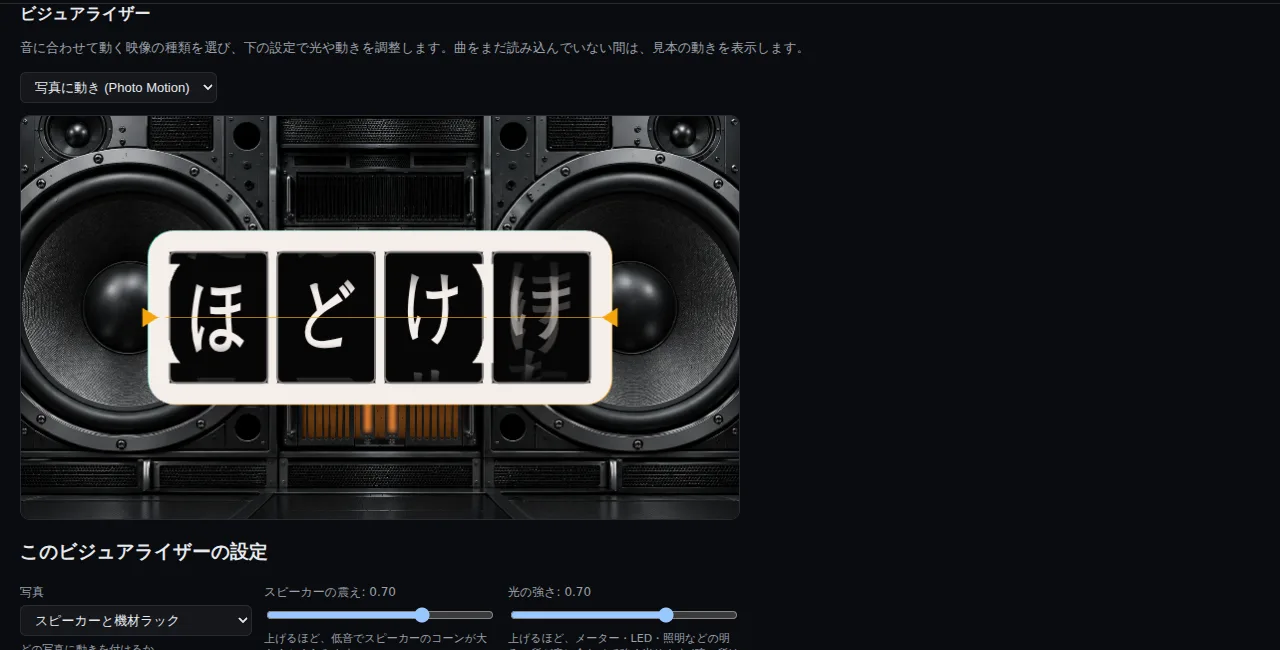
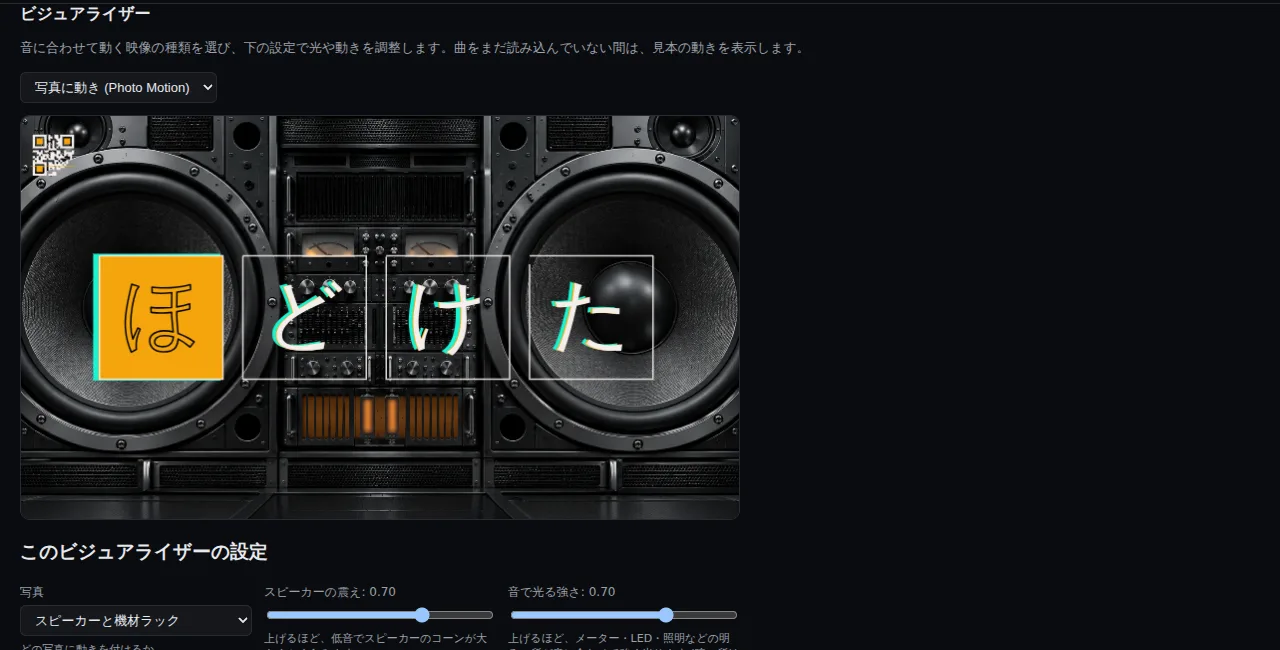
「背景と素材」を真ん中で分けてプレビューを大きく・つまみの名前を分ける・使い方の画像を撮り直す
- style.css: .overlay-split を左右同じ幅に（プレビューは前の 320〜460px から、1900px の画面で 922px、
  1280px で 612px）。1000px 以下は今までどおり上に固定
- 「光の強さ」が 2 つあったのを分けた: 共通 → 「光のにじみ」(Bloom)、写真に動き → 「音で光る強さ」(Light reaction)
- 使い方の画像を撮り直し、リリックモーションタブの「区切りで動きを変える」の画像を足した（11 枚）
- HANDOFF 更新

確認できたこと: build / lint / Vitest 373 件、E2E 全体 71 通過・1 スキップ。1900px と 1280px の画面を撮って
左右が同じ幅になっていることを目で確認。
確認できていないこと: ユーザーの実機の画面（とくに縦が短い画面でプレビューが下にはみ出さないか）。

Claude-Session: https://claude.ai/code/session_017BGLo5ekjnP2oxaPpkGnjD

Changed region(s): [[0.0625, 0.3385, 0.5, 0.6462], [0.0, 0.1846, 0.0625, 0.2769], [0.375, 0.8923, 0.4688, 0.9231]]

diff --git a/tests/e2e/shell.spec.ts b/tests/e2e/shell.spec.ts
@@ -63,7 +63,7 @@ test('表記の言語: 日本語に切り替えるとタブ名・設定の名前
   await page.locator('button[data-lang="ja"]').click();
   await expect(page.getByRole('tab', { name: 'ビジュアライザー' })).toBeVisible();
   await page.getByRole('tab', { name: 'ビジュアライザー' }).click();
-  await expect(page.getByText(/^光の強さ: /)).toBeVisible();
+  await expect(page.getByText(/^光のにじみ: /)).toBeVisible();
   await expect(page.getByText('明るい部分のまわりが、ふんわり光って見える量')).toBeVisible();
   await expect(page.locator('html')).toHaveAttribute('lang', 'ja');
   // 開き直しても日本語のまま (このブラウザに覚えている)
@@ -72,7 +72,7 @@ test('表記の言語: 日本語に切り替えるとタブ名・設定の名前
   await page.locator('button[data-lang="en"]').click();
   await expect(page.getByRole('tab', { name: 'Music' })).toBeVisible();
   await page.getByRole('tab', { name: 'Visualizer' }).click();
-  await expect(page.getByText(/^Glow: /)).toBeVisible();
+  await expect(page.getByText(/^Bloom: /)).toBeVisible();
 });
 
 test('このビジュアライザーの設定: Live Stage のカメラの場所を選ぶと残り、ほかのビジュアライザーには出ない', async ({ page }) => {

diff --git a/src/ui/panels/help.ts b/src/ui/panels/help.ts
@@ -2,6 +2,7 @@ import { t2, type Text2 } from '../../core/i18n';
 import backgroundImg from '../../assets/help/background.webp';
 import exportImg from '../../assets/help/export.webp';
 import layersImg from '../../assets/help/layers.webp';
+import lyricMotionImg from '../../assets/help/lyric-motion.webp';
 import lyricsInputImg from '../../assets/help/lyrics-input.webp';
 import lyricsStepsImg from '../../assets/help/lyrics-steps.webp';
 import lyricsTapImg from '../../assets/help/lyrics-tap.webp';
@@ -158,6 +159,7 @@ const DETAILS: Block[] = [
         en: 'Motion by section: with headings like [Chorus] or [Intro], the chorus moves harder and the intro / outro calmer. Choose the strength per section in the Lyric motion tab',
       },
     ],
+    image: { src: lyricMotionImg, alt: { ja: '「リリックモーション」タブの「区切りで動きを変える」', en: '"Motion by section" in the Lyric motion tab' } },
   },
   {
     title: { ja: 'ビジュアライザー (映像の種類と設定)', en: 'Visualizer (visual types and settings)' },

diff --git a/src/style.css b/src/style.css
@@ -519,8 +519,8 @@ body {
 .help-details > summary { cursor: pointer; font-weight: 600; padding: 4px 0; color: #e7e9ee; }
 .help-details[open] > summary { margin-bottom: 4px; }
 
-/* 「背景と素材」タブ: 左に設定、右に固定のプレビュー (狭い画面では上に固定) */
-.overlay-split { display: grid; grid-template-columns: minmax(0, 1fr) minmax(320px, 460px); gap: 16px; align-items: start; }
+/* 「背景と素材」タブ: 真ん中で分けて、左に設定、右に固定のプレビュー (狭い画面では上に固定) */
+.overlay-split { display: grid; grid-template-columns: minmax(0, 1fr) minmax(0, 1fr); gap: 16px; align-items: start; }
 .overlay-controls { min-width: 0; }
 .overlay-preview { position: sticky; top: 8px; z-index: 5; }
 .overlay-preview .visualizer-canvas-wrap { margin-top: 0; max-width: none; }

diff --git a/src/visualizers/photo-motion/index.ts b/src/visualizers/photo-motion/index.ts
@@ -33,7 +33,7 @@ export const manifest: VisualizerManifest = {
     {
       type: 'range',
       key: 'glowAmount',
-      label: { ja: '光の強さ', en: 'Glow' },
+      label: { ja: '音で光る強さ', en: 'Light reaction' },
       help: {
         ja: '上げるほど、メーター・LED・照明などの明るい所が音に合わせて強く光ります (暗い所はそのまま)',
         en: 'Higher makes the bright parts (meters, LEDs, lights) glow more with the music (dark parts stay as they are)',

diff --git a/src/ui/panels/visualizer.ts b/src/ui/panels/visualizer.ts
@@ -41,7 +41,7 @@ const NUMERIC_PARAMS: { key: keyof CommonParams; label: Text2; help: Text2; min:
   },
   {
     key: 'glow',
-    label: { ja: '光の強さ', en: 'Glow' },
+    label: { ja: '光のにじみ', en: 'Bloom' },
     help: { ja: '明るい部分のまわりが、ふんわり光って見える量', en: 'How much bright areas bloom with a soft halo' },
     min: 0, max: 1, step: 0.01,
   },

diff --git a/docs/HANDOFF.md b/docs/HANDOFF.md
@@ -392,7 +392,7 @@ Live Stage のカメラと、奥から手前へ来る光（ユーザー要望 20
 - `.github/workflows/pages.yml`: **main-jxttta に push するたびに**、lint・単体テスト・ビルド (`ZUNZUN_BASE=/ZUNZUN/`) をして https://luarietakamiya-dotcom.github.io/ZUNZUN/ に出す (ユーザー指示。push するたびに公開版も変わるので、途中のものを push するときは気をつける)。
 - 初回はユーザーがリポジトリの設定を 2 つする: Settings → Pages の Source を「GitHub Actions」、Settings → Environments → github-pages の Deployment branches に main-jxttta を足す。
 - `vite.config.ts` の `base` は `ZUNZUN_BASE` (ふだんは `/`)。
-- 残り: ビジュアライザーの設定に「光の強さ」という名前のつまみが 2 つある (共通の光のにじみと、写真に動きの glowAmount)。名前を分ける。
+- 「光の強さ」という名前のつまみが 2 つあった件（済 2026-10-02）: 共通は「光のにじみ」(Bloom)、写真に動きの glowAmount は「音で光る強さ」(Light reaction)。
 
 ### 2026-10-01 曲の区切り（ARCHITECTURE「曲の区切りと、背景のスライドショー」①）
 - `core/lyrics/sections.ts`: `sectionKindOf`（見出し・ファイル名の言葉 → 種類。英字は前後が英字でないときだけ = universe は verse ではない、`_chorus_01` は chorus）、`findSections`（見出しの行番号 → 歌詞の行の時刻）、`sectionAt`。`buildLyricsView` の `sections`。タイムラインに色の帯（`lyrics-timeline.ts` の `SECTION_STYLE`）。
@@ -408,9 +408,9 @@ Live Stage のカメラと、奥から手前へ来る光（ユーザー要望 20
 
 ### 2026-10-01 「使い方」タブ（ユーザー指示「簡単な使い方と、詳しい使い方をのせたページを書き出しの横に。画像付き」）
 - `src/ui/panels/help.ts`（`PanelId` に `help`、タブの並びの最後）。かんたんな使い方 5 つの手順（曲 → 映像 → 歌詞とタップ → 背景 → 書き出し）と、くわしい使い方（開け閉めできる項目 11 個）。文は日本語・英語。
-- 画像は `src/assets/help/*.webp`（10 枚・約 320KB。画像の中の文字は日本語）。**画面を変えたら撮り直す**: `npm run dev` を起動してから `node scripts/help-screenshots.mjs [chromium の場所]`（見本の曲・歌詞・画像はスクリプトの中で作る。ユーザーの曲や歌詞は写さない）。文（help.ts）も合わせて直す。
+- 画像は `src/assets/help/*.webp`（11 枚・約 340KB。画像の中の文字は日本語）。**画面を変えたら撮り直す**: `npm run dev` を起動してから `node scripts/help-screenshots.mjs [chromium の場所]`（見本の曲・歌詞・画像はスクリプトの中で作る。ユーザーの曲や歌詞は写さない）。文（help.ts）も合わせて直す。
 - タブが 7 つになって 1280px で上の帯が 2 段になったので、再生の位置のつまみ（180 → 140px）と曲の名前（160 → 120px）を少し短くした。
-- E2E `tests/e2e/help.spec.ts`（タブがいちばん右・5 つの手順・画像 10 枚がすべて読める）。`shell.spec.ts` のタブの数を 7 に。
+- E2E `tests/e2e/help.spec.ts`（タブがいちばん右・5 つの手順・画像 11 枚がすべて読める）。`shell.spec.ts` のタブの数を 7 に。
 
 ### 2026-10-01 タブの並びと「リリックモーション」タブ（レビュー・ユーザーの声）
 - 並び: 音楽・歌詞・**リリックモーション**・ビジュアライザー・背景と素材・**保存**（元「設定」）・書き出し・使い方（`shell.ts` の `TAB_ORDER`、`PanelId` の `motion`）。
@@ -428,3 +428,8 @@ Live Stage のカメラと、奥から手前へ来る光（ユーザー要望 20
 - テスト: `section-motion.test.ts`（Vitest）、E2E `tests/e2e/section-motion.spec.ts`（A メロ 4 行・サビ 4 行で、サビの飾りが多い 19 → 30、同じ設定なら同じ段取り、外せば今までどおり）。
 - **ハマったこと**: 最初は「サビの方がカットが多い」で確かめようとしたが、JIZURA は行のカットの数を言葉の区切りの数で頭打ちにするので、短い行では同じ数になった。飾りの数で確かめる。
 - 確かめていないこと: 実際の曲での見た目、書き出した MP4。
+
+### 2026-10-02 「背景と素材」を真ん中で分ける・使い方の画像の撮り直し（ユーザー「真ん中で分けられる？プレビューもうちょっと大きくしたい」）
+- `.overlay-split` を左右同じ幅に（前はプレビューが 320〜460px）。1900px の画面でプレビューは横 922px、1280px で 612px。狭い画面（1000px 以下）は今までどおり上に固定。
+- 使い方の画像を撮り直し、リリックモーションタブの「区切りで動きを変える」欄の画像（`lyric-motion.webp`）を足した（「そのほかの歌詞の機能」に付ける）。
+- **注意**: 新しい画像を help.ts で読み込む前に撮影スクリプトを動かすと、画像が無くて画面が壊れる。先に仮のファイルを置いてから撮る。
